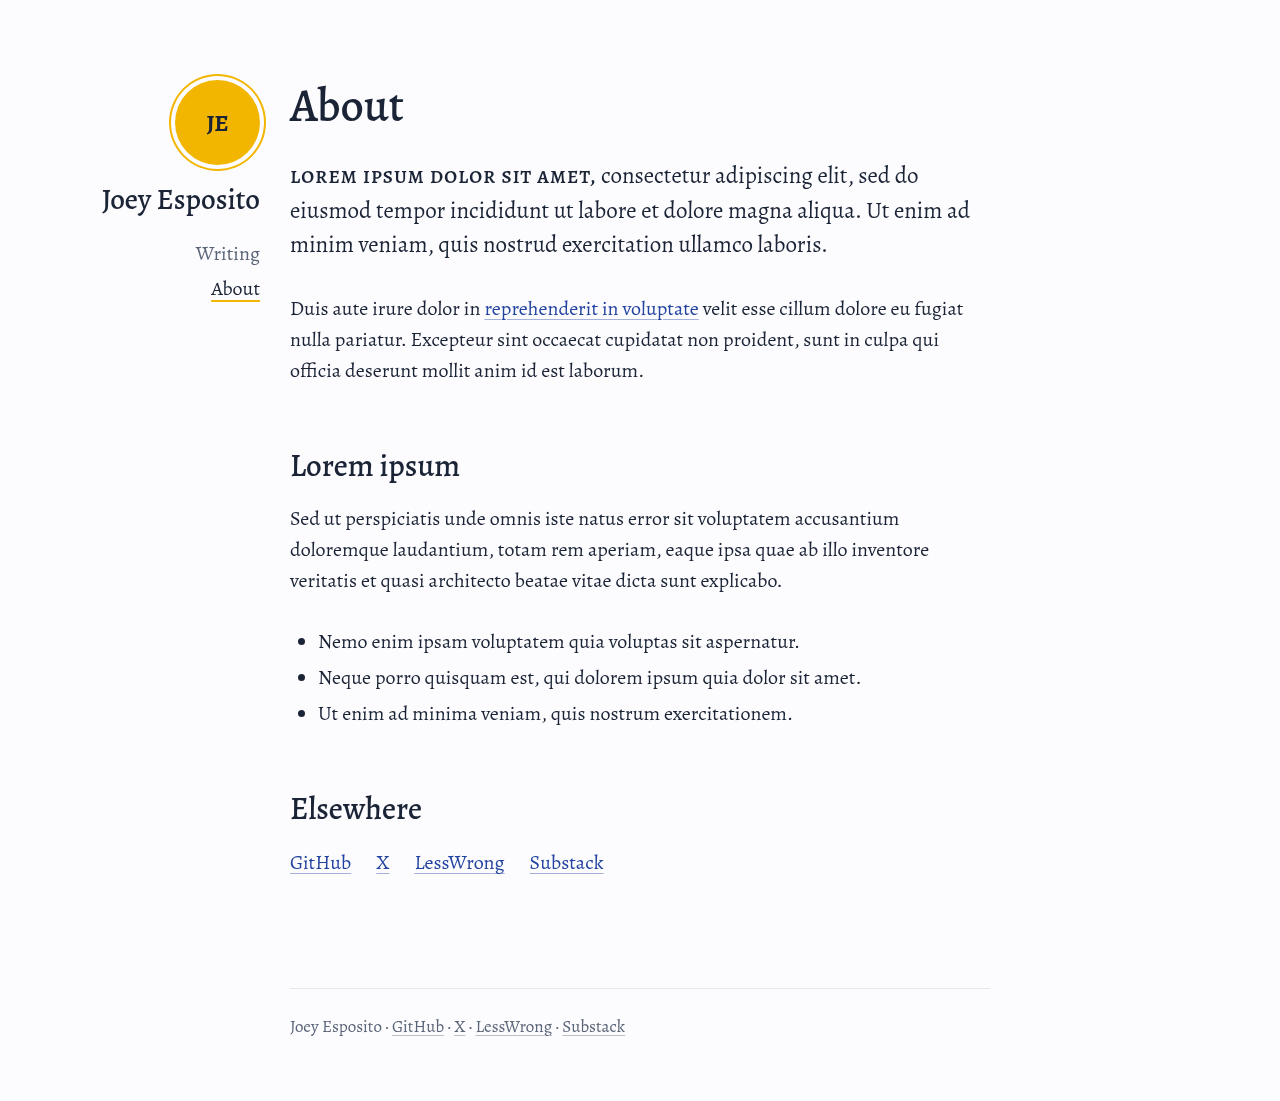
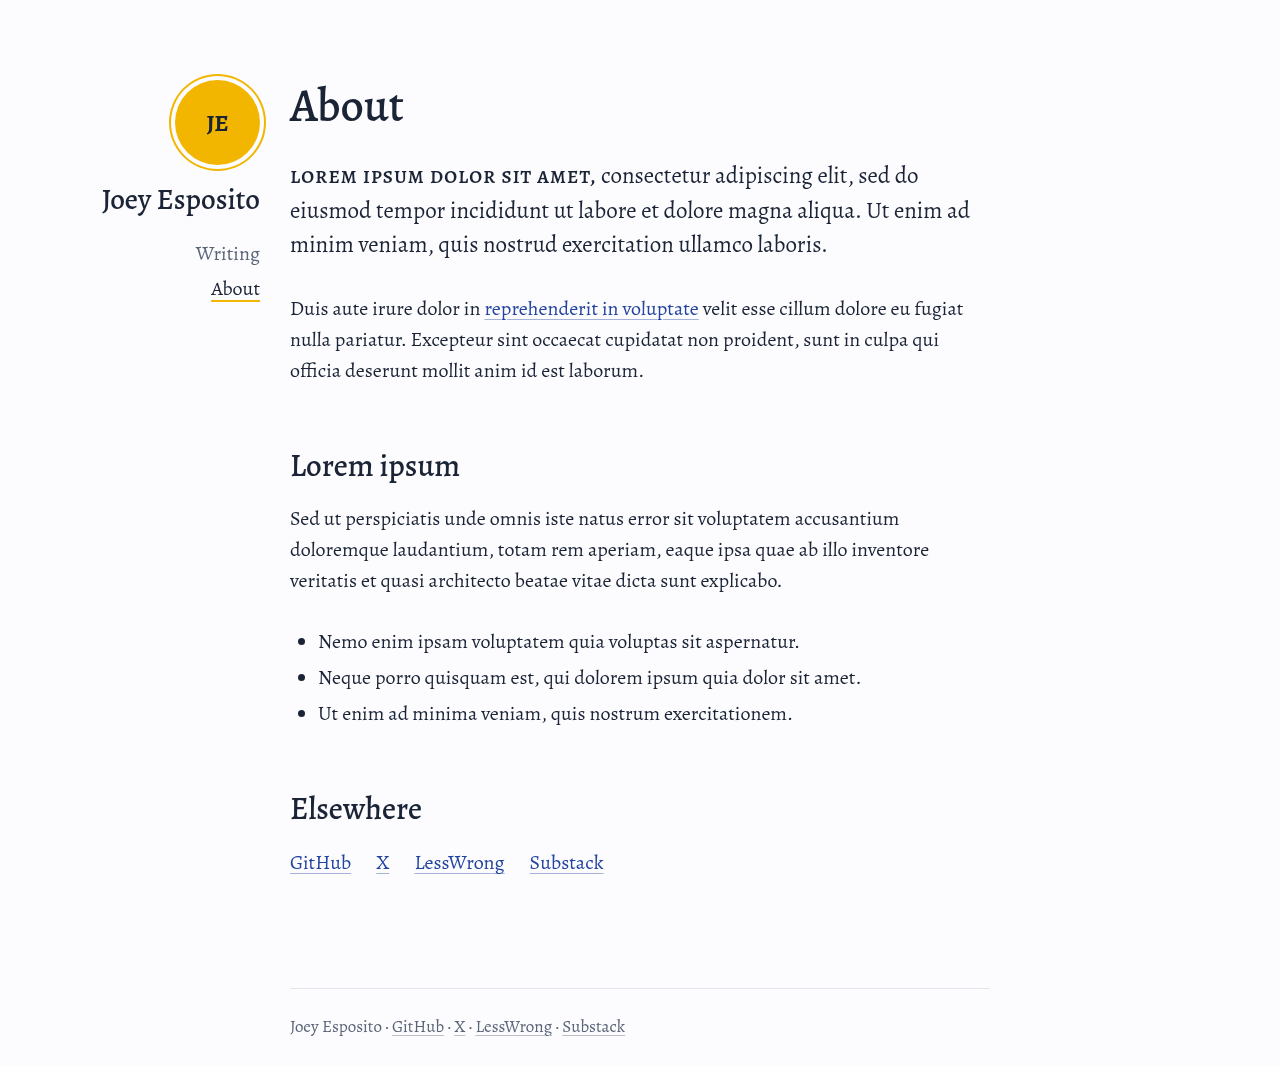
Tighten the footer: follow the writing list like an entry rule, even padding

diff --git a/src/styles/global.css b/src/styles/global.css
@@ -82,7 +82,11 @@ sup { line-height: 0; }
 
 .page { padding-block: 1.75rem 0; min-height: 60vh; }
 
-.site-footer { margin-top: 4rem; padding-block: 1.25rem 3rem; border-top: 1px solid var(--rule); font-size: 0.85rem; color: var(--muted); }
+.site-footer { margin-top: 4rem; padding-block: 1.25rem; border-top: 1px solid var(--rule); font-size: 0.85rem; color: var(--muted); }
+/* Under the writing list the footer's rule is the last entry's rule, so it follows the list
+   at an entry's spacing, however short a filter makes the list. */
+body:has(.writing) .site-footer { margin-top: 0; }
+.page:has(.writing) { min-height: 0; }
 .site-footer a { color: var(--muted); }
 
 @media (min-width: 80rem) {
